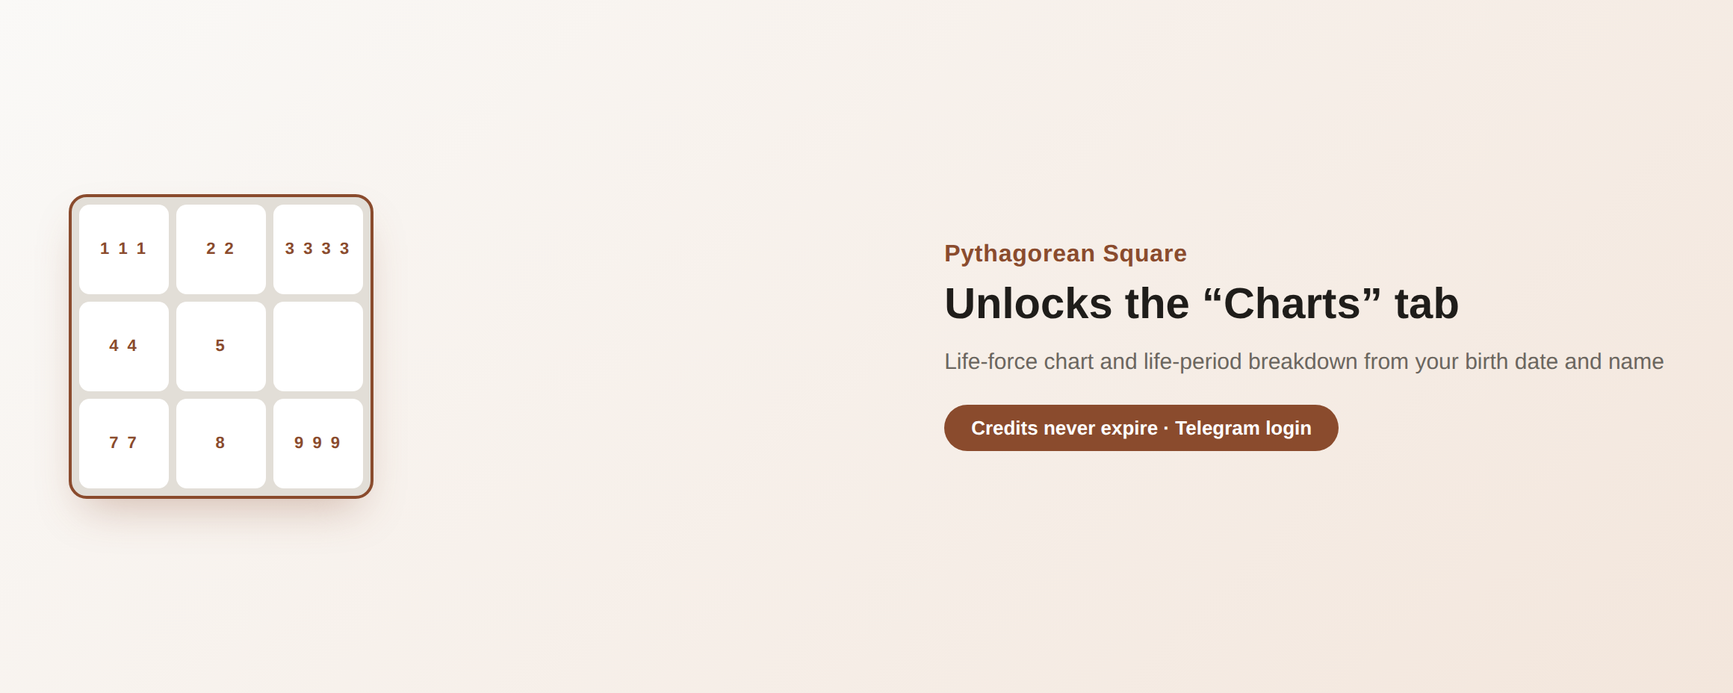
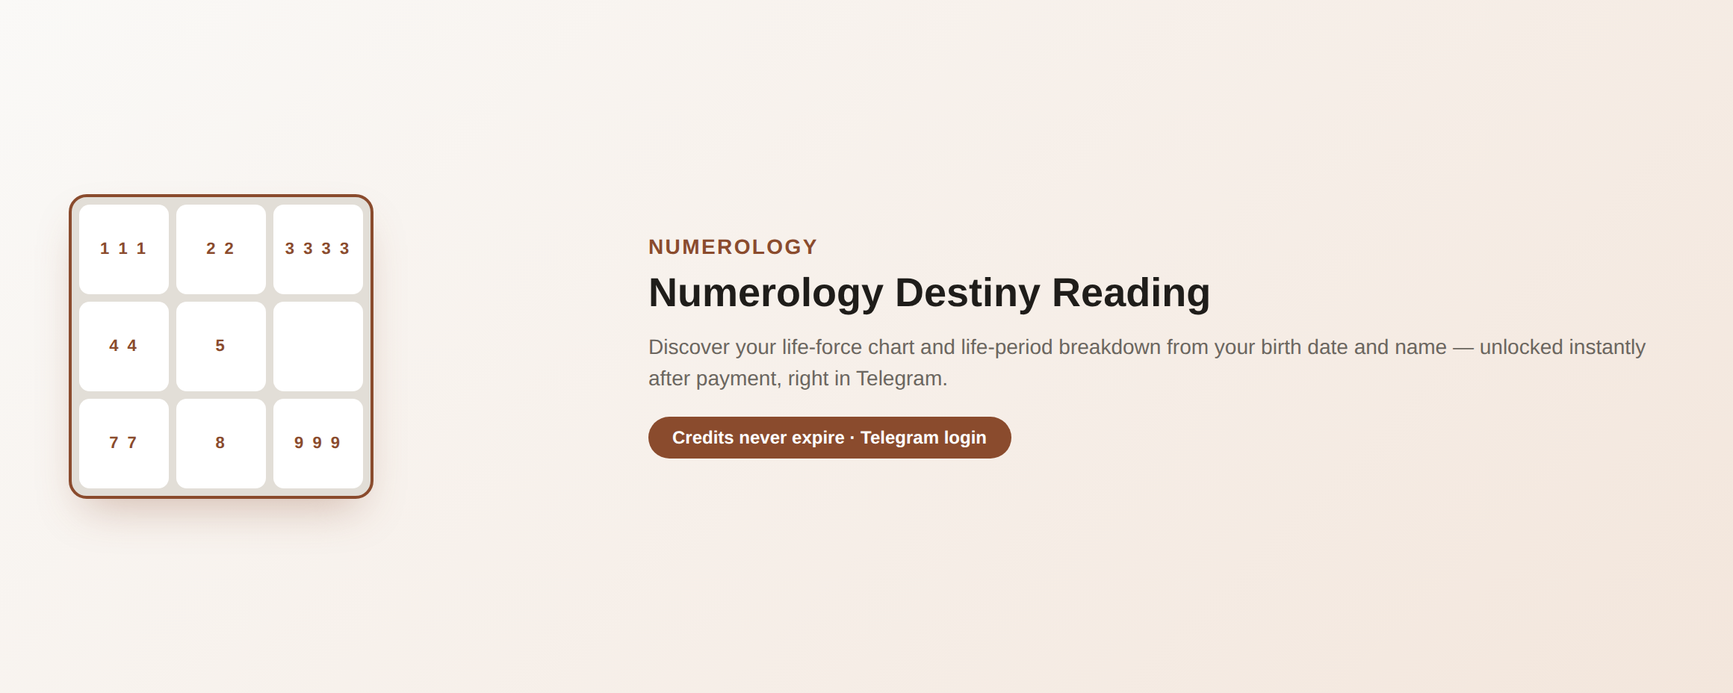
Change Lava.top tariffs to 3/10 readings at 999/2499 RUB
Drop the 15-reading pack per decision: only two packs now (999 RUB /
2499 RUB for RU, $14.99 / $34.99 for EN), re-buyable any time readings
run out. Updates pricing UI, the offer text, backend PACKS/LAVA_OFFERS,
tests, .env.example, and the Lava.top marketing content/README
(4 products instead of 6). Also shortens the buyer email text and
tightens a stale comment about pricing display logic.

Changed region(s): [[0.3724, 0.3438, 0.9621, 0.5625], [0.3724, 0.5625, 0.7759, 0.6875], [0.3724, 0.3438, 0.4655, 0.375]]

diff --git a/index.html b/index.html
@@ -414,14 +414,12 @@ const API_BASE = "/api"; // бэкенд должен быть на том же 
 const TG_BOT_USERNAME = "AstroNumeros_bot"; // username бота из @BotFather, без @
 const PACKS_INFO = {
   ru:[
-    {key:"pack3", credits:3, price:"399 ₽"},
-    {key:"pack10", credits:10, price:"999 ₽", best:true},
-    {key:"pack15", credits:15, price:"1399 ₽"},
+    {key:"pack3", credits:3, price:"999 ₽"},
+    {key:"pack10", credits:10, price:"2499 ₽", best:true},
   ],
   en:[
-    {key:"pack3", credits:3, price:"$5.99"},
-    {key:"pack10", credits:10, price:"$11.99", best:true},
-    {key:"pack15", credits:15, price:"$15.99"},
+    {key:"pack3", credits:3, price:"$14.99"},
+    {key:"pack10", credits:10, price:"$34.99", best:true},
   ],
 };
 
@@ -466,7 +464,7 @@ const STR = {
   planFreeName:"Free", planFreePrice:"0 ₽", planFreePeriod:"навсегда",
   planFreeDesc:"Вкладки «Числа» и «Трактовка» — без ограничений. Плюс один бесплатный разбор с открытием вкладки «Графики».",
   packPeriod:"разово, без срока действия",
-  packDesc:n=>"Открывает вкладку «Графики» для "+n+" расчётов.", // после «для» число всегда в род. падеже мн. числа — пакеты 3/10/15, «1» здесь не бывает
+  packDesc:n=>"Открывает вкладку «Графики» для "+n+" расчётов.", // после «для» число всегда в род. падеже мн. числа — пакеты 3/10, «1» здесь не бывает
   planFeaturesLabel:"Доступные вкладки:",
   planBadge:"выгоднее",
   infoTermsShort:"Полный текст условий оказания услуг и оплаты — в отдельном документе.",
@@ -680,7 +678,7 @@ const OFERTA_PARAS = {
   "Настоящий документ является публичной офертой Марины Бобренко, самозанятой (плательщик налога на профессиональный доход) (далее — «Исполнитель») на оказание информационных услуг с использованием сервиса «Квадрат Пифагора» (далее — «Сервис»).",
   "1. Предмет. Исполнитель предоставляет Пользователю доступ к автоматическому расчёту нумерологической матрицы (квадрата Пифагора) по дате рождения и ФИО, а также текстовую трактовку полученных чисел.",
   "2. Характер услуг. Результаты расчёта носят информационно-развлекательный характер, не являются медицинской, психологической, юридической или финансовой консультацией и не заменяют профессиональную помощь.",
-  "3. Тарифы и оплата. Вкладки «Числа» и «Трактовка» доступны бесплатно и без ограничения по времени. Вкладка «Графики» открывается за 1 «разбор»: первый разбор для каждого пользователя — бесплатно, далее разборы приобретаются пакетами: 399 ₽ — 3 разбора, 999 ₽ — 10 разборов, 1399 ₽ — 15 разборов. Разборы не имеют срока действия и списываются по одному за каждый новый расчёт, для которого открывается вкладка «Графики». Для получения бесплатного разбора и учёта баланса используется вход через Telegram. Оплата производится через платёжный сервис Lava.top; автоматическое продление и повторное списание средств не предусмотрены.",
+  "3. Тарифы и оплата. Вкладки «Числа» и «Трактовка» доступны бесплатно и без ограничения по времени. Вкладка «Графики» открывается за 1 «разбор»: первый разбор для каждого пользователя — бесплатно, далее разборы приобретаются пакетами: 999 ₽ — 3 разбора, 2499 ₽ — 10 разборов. Пакеты можно докупать повторно в любой момент, когда разборы заканчиваются. Разборы не имеют срока действия и списываются по одному за каждый новый расчёт, для которого открывается вкладка «Графики». Для получения бесплатного разбора и учёта баланса используется вход через Telegram. Оплата производится через платёжный сервис Lava.top; автоматическое продление и повторное списание средств не предусмотрены.",
   "4. Возврат. Доступ к оплаченному тарифу предоставляется мгновенно после оплаты. Возврат средств возможен в случае технической ошибки, из-за которой доступ не был предоставлен, — по обращению в поддержку (см. «Контакты»).",
   "5. Персональные данные. Дата рождения и ФИО, введённые в форму, используются только для расчёта и не передаются третьим лицам, за исключением данных, необходимых платёжному сервису для обработки платежа.",
   "6. Согласие. Начиная использовать Сервис и/или производя оплату, Пользователь подтверждает согласие с условиями настоящей оферты. Действующая редакция всегда доступна на этой странице.",
@@ -690,7 +688,7 @@ const OFERTA_PARAS = {
   "This document is a public offer by Marina Bobrenko, a self-employed individual (professional-income taxpayer, Russia) (the “Provider”) to render information services using the “Pythagorean Square” service (the “Service”).",
   "1. Subject. The Provider gives the User access to an automated calculation of the numerology matrix (Pythagorean square) from a birth date and full name, together with a text interpretation of the resulting numbers.",
   "2. Nature of the service. The results are for informational and entertainment purposes only; they are not medical, psychological, legal or financial advice and do not replace professional help.",
-  "3. Plans and payment. The “Numbers” and “Interpretation” tabs are free and available without a time limit. The “Charts” tab is unlocked with 1 “reading”: each user's first reading is free; further readings are bought in packs: 399 ₽ (≈$5.99) for 3 readings, 999 ₽ (≈$11.99) for 10 readings, 1399 ₽ (≈$15.99) for 15 readings. Readings do not expire and are spent one at a time, each time the “Charts” tab is unlocked for a new calculation. Logging in with Telegram is used to grant the free reading and keep track of the balance. Payment is processed via the Lava.top payment service; there is no automatic renewal or recurring charge.",
+  "3. Plans and payment. The “Numbers” and “Interpretation” tabs are free and available without a time limit. The “Charts” tab is unlocked with 1 “reading”: each user's first reading is free; further readings are bought in packs: 999 ₽ (≈$14.99) for 3 readings, 2499 ₽ (≈$34.99) for 10 readings. Packs can be bought again at any time once your readings run out. Readings do not expire and are spent one at a time, each time the “Charts” tab is unlocked for a new calculation. Logging in with Telegram is used to grant the free reading and keep track of the balance. Payment is processed via the Lava.top payment service; there is no automatic renewal or recurring charge.",
   "4. Refunds. Access to a paid plan is granted instantly after payment. A refund is possible if a technical error prevented access from being granted — by contacting support (see “Contacts”).",
   "5. Personal data. The birth date and name entered in the form are used only to perform the calculation and are not shared with third parties, except data required by the payment service to process the payment.",
   "6. Consent. By using the Service and/or making a payment, the User confirms agreement with the terms of this offer. The current version is always available on this page.",

diff --git a/template.html b/template.html
@@ -109,14 +109,12 @@ const API_BASE = "/api"; // бэкенд должен быть на том же 
 const TG_BOT_USERNAME = "AstroNumeros_bot"; // username бота из @BotFather, без @
 const PACKS_INFO = {
   ru:[
-    {key:"pack3", credits:3, price:"399 ₽"},
-    {key:"pack10", credits:10, price:"999 ₽", best:true},
-    {key:"pack15", credits:15, price:"1399 ₽"},
+    {key:"pack3", credits:3, price:"999 ₽"},
+    {key:"pack10", credits:10, price:"2499 ₽", best:true},
   ],
   en:[
-    {key:"pack3", credits:3, price:"$5.99"},
-    {key:"pack10", credits:10, price:"$11.99", best:true},
-    {key:"pack15", credits:15, price:"$15.99"},
+    {key:"pack3", credits:3, price:"$14.99"},
+    {key:"pack10", credits:10, price:"$34.99", best:true},
   ],
 };
 
@@ -161,7 +159,7 @@ const STR = {
   planFreeName:"Free", planFreePrice:"0 ₽", planFreePeriod:"навсегда",
   planFreeDesc:"Вкладки «Числа» и «Трактовка» — без ограничений. Плюс один бесплатный разбор с открытием вкладки «Графики».",
   packPeriod:"разово, без срока действия",
-  packDesc:n=>"Открывает вкладку «Графики» для "+n+" расчётов.", // после «для» число всегда в род. падеже мн. числа — пакеты 3/10/15, «1» здесь не бывает
+  packDesc:n=>"Открывает вкладку «Графики» для "+n+" расчётов.", // после «для» число всегда в род. падеже мн. числа — пакеты 3/10, «1» здесь не бывает
   planFeaturesLabel:"Доступные вкладки:",
   planBadge:"выгоднее",
   infoTermsShort:"Полный текст условий оказания услуг и оплаты — в отдельном документе.",
@@ -375,7 +373,7 @@ const OFERTA_PARAS = {
   "Настоящий документ является публичной офертой Марины Бобренко, самозанятой (плательщик налога на профессиональный доход) (далее — «Исполнитель») на оказание информационных услуг с использованием сервиса «Квадрат Пифагора» (далее — «Сервис»).",
   "1. Предмет. Исполнитель предоставляет Пользователю доступ к автоматическому расчёту нумерологической матрицы (квадрата Пифагора) по дате рождения и ФИО, а также текстовую трактовку полученных чисел.",
   "2. Характер услуг. Результаты расчёта носят информационно-развлекательный характер, не являются медицинской, психологической, юридической или финансовой консультацией и не заменяют профессиональную помощь.",
-  "3. Тарифы и оплата. Вкладки «Числа» и «Трактовка» доступны бесплатно и без ограничения по времени. Вкладка «Графики» открывается за 1 «разбор»: первый разбор для каждого пользователя — бесплатно, далее разборы приобретаются пакетами: 399 ₽ — 3 разбора, 999 ₽ — 10 разборов, 1399 ₽ — 15 разборов. Разборы не имеют срока действия и списываются по одному за каждый новый расчёт, для которого открывается вкладка «Графики». Для получения бесплатного разбора и учёта баланса используется вход через Telegram. Оплата производится через платёжный сервис Lava.top; автоматическое продление и повторное списание средств не предусмотрены.",
+  "3. Тарифы и оплата. Вкладки «Числа» и «Трактовка» доступны бесплатно и без ограничения по времени. Вкладка «Графики» открывается за 1 «разбор»: первый разбор для каждого пользователя — бесплатно, далее разборы приобретаются пакетами: 999 ₽ — 3 разбора, 2499 ₽ — 10 разборов. Пакеты можно докупать повторно в любой момент, когда разборы заканчиваются. Разборы не имеют срока действия и списываются по одному за каждый новый расчёт, для которого открывается вкладка «Графики». Для получения бесплатного разбора и учёта баланса используется вход через Telegram. Оплата производится через платёжный сервис Lava.top; автоматическое продление и повторное списание средств не предусмотрены.",
   "4. Возврат. Доступ к оплаченному тарифу предоставляется мгновенно после оплаты. Возврат средств возможен в случае технической ошибки, из-за которой доступ не был предоставлен, — по обращению в поддержку (см. «Контакты»).",
   "5. Персональные данные. Дата рождения и ФИО, введённые в форму, используются только для расчёта и не передаются третьим лицам, за исключением данных, необходимых платёжному сервису для обработки платежа.",
   "6. Согласие. Начиная использовать Сервис и/или производя оплату, Пользователь подтверждает согласие с условиями настоящей оферты. Действующая редакция всегда доступна на этой странице.",
@@ -385,7 +383,7 @@ const OFERTA_PARAS = {
   "This document is a public offer by Marina Bobrenko, a self-employed individual (professional-income taxpayer, Russia) (the “Provider”) to render information services using the “Pythagorean Square” service (the “Service”).",
   "1. Subject. The Provider gives the User access to an automated calculation of the numerology matrix (Pythagorean square) from a birth date and full name, together with a text interpretation of the resulting numbers.",
   "2. Nature of the service. The results are for informational and entertainment purposes only; they are not medical, psychological, legal or financial advice and do not replace professional help.",
-  "3. Plans and payment. The “Numbers” and “Interpretation” tabs are free and available without a time limit. The “Charts” tab is unlocked with 1 “reading”: each user's first reading is free; further readings are bought in packs: 399 ₽ (≈$5.99) for 3 readings, 999 ₽ (≈$11.99) for 10 readings, 1399 ₽ (≈$15.99) for 15 readings. Readings do not expire and are spent one at a time, each time the “Charts” tab is unlocked for a new calculation. Logging in with Telegram is used to grant the free reading and keep track of the balance. Payment is processed via the Lava.top payment service; there is no automatic renewal or recurring charge.",
+  "3. Plans and payment. The “Numbers” and “Interpretation” tabs are free and available without a time limit. The “Charts” tab is unlocked with 1 “reading”: each user's first reading is free; further readings are bought in packs: 999 ₽ (≈$14.99) for 3 readings, 2499 ₽ (≈$34.99) for 10 readings. Packs can be bought again at any time once your readings run out. Readings do not expire and are spent one at a time, each time the “Charts” tab is unlocked for a new calculation. Logging in with Telegram is used to grant the free reading and keep track of the balance. Payment is processed via the Lava.top payment service; there is no automatic renewal or recurring charge.",
   "4. Refunds. Access to a paid plan is granted instantly after payment. A refund is possible if a technical error prevented access from being granted — by contacting support (see “Contacts”).",
   "5. Personal data. The birth date and name entered in the form are used only to perform the calculation and are not shared with third parties, except data required by the payment service to process the payment.",
   "6. Consent. By using the Service and/or making a payment, the User confirms agreement with the terms of this offer. The current version is always available on this page.",

diff --git a/oferta.html b/oferta.html
@@ -47,7 +47,7 @@ const STR = {
    "Настоящий документ является публичной офертой Марины Бобренко, самозанятой (плательщик налога на профессиональный доход) (далее — «Исполнитель») на оказание информационных услуг с использованием сервиса «Квадрат Пифагора» (далее — «Сервис»).",
    "1. Предмет. Исполнитель предоставляет Пользователю доступ к автоматическому расчёту нумерологической матрицы (квадрата Пифагора) по дате рождения и ФИО, а также текстовую трактовку полученных чисел.",
    "2. Характер услуг. Результаты расчёта носят информационно-развлекательный характер, не являются медицинской, психологической, юридической или финансовой консультацией и не заменяют профессиональную помощь.",
-   "3. Тарифы и оплата. Вкладки «Числа» и «Трактовка» доступны бесплатно и без ограничения по времени. Вкладка «Графики» открывается за 1 «разбор»: первый разбор для каждого пользователя — бесплатно, далее разборы приобретаются пакетами: 399 ₽ — 3 разбора, 999 ₽ — 10 разборов, 1399 ₽ — 15 разборов. Разборы не имеют срока действия и списываются по одному за каждый новый расчёт, для которого открывается вкладка «Графики». Для получения бесплатного разбора и учёта баланса используется вход через Telegram. Оплата производится через платёжный сервис Lava.top; автоматическое продление и повторное списание средств не предусмотрены.",
+   "3. Тарифы и оплата. Вкладки «Числа» и «Трактовка» доступны бесплатно и без ограничения по времени. Вкладка «Графики» открывается за 1 «разбор»: первый разбор для каждого пользователя — бесплатно, далее разборы приобретаются пакетами: 999 ₽ — 3 разбора, 2499 ₽ — 10 разборов. Пакеты можно докупать повторно в любой момент, когда разборы заканчиваются. Разборы не имеют срока действия и списываются по одному за каждый новый расчёт, для которого открывается вкладка «Графики». Для получения бесплатного разбора и учёта баланса используется вход через Telegram. Оплата производится через платёжный сервис Lava.top; автоматическое продление и повторное списание средств не предусмотрены.",
    "4. Возврат. Доступ к оплаченному тарифу предоставляется мгновенно после оплаты. Возврат средств возможен в случае технической ошибки, из-за которой доступ не был предоставлен, — по обращению в поддержку (см. «Контакты»).",
    "5. Персональные данные. Дата рождения и ФИО, введённые в форму, используются только для расчёта и не передаются третьим лицам, за исключением данных, необходимых платёжному сервису для обработки платежа.",
    "6. Согласие. Начиная использовать Сервис и/или производя оплату, Пользователь подтверждает согласие с условиями настоящей оферты. Действующая редакция всегда доступна на этой странице.",
@@ -63,7 +63,7 @@ const STR = {
    "This document is a public offer by Marina Bobrenko, a self-employed individual (professional-income taxpayer, Russia) (the “Provider”) to render information services using the “Pythagorean Square” service (the “Service”).",
    "1. Subject. The Provider gives the User access to an automated calculation of the numerology matrix (Pythagorean square) from a birth date and full name, together with a text interpretation of the resulting numbers.",
    "2. Nature of the service. The results are for informational and entertainment purposes only; they are not medical, psychological, legal or financial advice and do not replace professional help.",
-   "3. Plans and payment. The “Numbers” and “Interpretation” tabs are free and available without a time limit. The “Charts” tab is unlocked with 1 “reading”: each user's first reading is free; further readings are bought in packs: 399 ₽ (≈$5.99) for 3 readings, 999 ₽ (≈$11.99) for 10 readings, 1399 ₽ (≈$15.99) for 15 readings. Readings do not expire and are spent one at a time, each time the “Charts” tab is unlocked for a new calculation. Logging in with Telegram is used to grant the free reading and keep track of the balance. Payment is processed via the Lava.top payment service; there is no automatic renewal or recurring charge.",
+   "3. Plans and payment. The “Numbers” and “Interpretation” tabs are free and available without a time limit. The “Charts” tab is unlocked with 1 “reading”: each user's first reading is free; further readings are bought in packs: 999 ₽ (≈$14.99) for 3 readings, 2499 ₽ (≈$34.99) for 10 readings. Packs can be bought again at any time once your readings run out. Readings do not expire and are spent one at a time, each time the “Charts” tab is unlocked for a new calculation. Logging in with Telegram is used to grant the free reading and keep track of the balance. Payment is processed via the Lava.top payment service; there is no automatic renewal or recurring charge.",
    "4. Refunds. Access to a paid plan is granted instantly after payment. A refund is possible if a technical error prevented access from being granted — by contacting support (see “Contacts”).",
    "5. Personal data. The birth date and name entered in the form are used only to perform the calculation and are not shared with third parties, except data required by the payment service to process the payment.",
    "6. Consent. By using the Service and/or making a payment, the User confirms agreement with the terms of this offer. The current version is always available on this page.",

diff --git a/backend/main.py b/backend/main.py
@@ -27,8 +27,6 @@ Run locally for testing:
     export LAVA_OFFER_PACK3_EN=...      # offerId (UUID) of the EN "3 readings" product in Lava.top
     export LAVA_OFFER_PACK10_RU=...
     export LAVA_OFFER_PACK10_EN=...
-    export LAVA_OFFER_PACK15_RU=...
-    export LAVA_OFFER_PACK15_EN=...
     export FRONTEND_URL=https://your-domain.example
     uvicorn main:app --host 0.0.0.0 --port 8000
 
@@ -71,7 +69,6 @@ LAVA_WEBHOOK_SECRET = os.environ.get("LAVA_WEBHOOK_SECRET", "")
 LAVA_OFFERS = {
     "pack3":  {"ru": os.environ.get("LAVA_OFFER_PACK3_RU", ""),  "en": os.environ.get("LAVA_OFFER_PACK3_EN", "")},
     "pack10": {"ru": os.environ.get("LAVA_OFFER_PACK10_RU", ""), "en": os.environ.get("LAVA_OFFER_PACK10_EN", "")},
-    "pack15": {"ru": os.environ.get("LAVA_OFFER_PACK15_RU", ""), "en": os.environ.get("LAVA_OFFER_PACK15_EN", "")},
 }
 
 FRONTEND_URL = os.environ.get("FRONTEND_URL", "http://localhost:8080")
@@ -79,13 +76,14 @@ DB_PATH = os.environ.get("DB_PATH", os.path.join(os.path.dirname(__file__), "app
 EMAIL_RE = re.compile(r"^[^@\s]+@[^@\s]+\.[^@\s]+$")
 
 # Packs are the source of truth for price/credits — never trust amounts from the client.
-# RUB prices as agreed; USD prices are a display default for the EN UI until a real
-# foreign-currency payment channel exists (see conversation notes) — YooKassa will
-# still charge the RUB amount even when the UI shows the EN/$ price.
+# These amount_rub/amount_usd figures are display-only (the /api/packs response,
+# and what the pricing tab on the site shows) — the actual charge amount comes
+# from the price configured on the matching Lava.top product/tariff itself
+# (LAVA_OFFERS), since create_lava_invoice() doesn't send an amount. Keep these
+# in sync by hand whenever the price is changed in the Lava.top dashboard.
 PACKS = {
-    "pack3":  {"credits": 3,  "amount_rub": 399,  "amount_usd": 5.99,  "label_ru": "3 разбора",  "label_en": "3 readings"},
-    "pack10": {"credits": 10, "amount_rub": 999,  "amount_usd": 11.99, "label_ru": "10 разборов", "label_en": "10 readings"},
-    "pack15": {"credits": 15, "amount_rub": 1399, "amount_usd": 15.99, "label_ru": "15 разборов", "label_en": "15 readings"},
+    "pack3":  {"credits": 3,  "amount_rub": 999,  "amount_usd": 14.99, "label_ru": "3 разбора",  "label_en": "3 readings"},
+    "pack10": {"credits": 10, "amount_rub": 2499, "amount_usd": 34.99, "label_ru": "10 разборов", "label_en": "10 readings"},
 }
 
 SESSION_COOKIE = "pf_session"
@@ -164,7 +162,7 @@ def on_startup():
     if not LAVA_API_KEY:
         print("WARNING: LAVA_API_KEY not set — payments (active provider) will fail.")
     if not all(LAVA_OFFERS[pack][lang] for pack in LAVA_OFFERS for lang in ("ru", "en")):
-        print("WARNING: one or more LAVA_OFFER_pack* ids are not set — create the 3 products in "
+        print("WARNING: one or more LAVA_OFFER_pack* ids are not set — create the 2 products in "
               "the Lava.top dashboard first and put their offerId here.")
     if not LAVA_WEBHOOK_SECRET:
         print("WARNING: LAVA_WEBHOOK_SECRET not set — the webhook endpoint will accept unauthenticated calls.")

diff --git a/verify9.py b/verify9.py
@@ -33,9 +33,9 @@ async def main():
         info_text = await page.locator("#tab-info").inner_text()
         print("\n--- Тарифы tab snippet ---")
         print(info_text[:600])
-        for expect in ["399", "999", "1399", "Free"]:
+        for expect in ["999", "2499", "Free"]:
             assert expect in info_text, f"missing {expect} in pricing tab"
-        print("OK: pricing tab shows Free + 3 packs with correct prices")
+        print("OK: pricing tab shows Free + 2 packs with correct prices")
 
         # switch to EN, re-check graphs paywall + pricing in USD
         await page.get_by_role("button", name="EN", exact=True).click()
@@ -53,7 +53,7 @@ async def main():
         info_text_en = await page.locator("#tab-info").inner_text()
         print("\n--- Pricing tab (EN) snippet ---")
         print(info_text_en[:600])
-        for expect in ["5.99", "11.99", "15.99"]:
+        for expect in ["14.99", "34.99"]:
             assert expect in info_text_en, f"missing {expect} in EN pricing tab"
         print("OK: EN pricing tab shows USD prices")
 

diff --git a/backend/test_smoke.py b/backend/test_smoke.py
@@ -95,12 +95,16 @@ with TestClient(main.app, base_url="https://testserver") as c:
 r = client.get("/api/packs?lang=ru")
 assert r.status_code == 200
 packs_ru = r.json()
-assert packs_ru["pack3"]["amount"] == 399 and packs_ru["pack3"]["currency"] == "RUB"
+assert packs_ru["pack3"]["amount"] == 999 and packs_ru["pack3"]["currency"] == "RUB"
+assert packs_ru["pack10"]["amount"] == 2499 and packs_ru["pack10"]["currency"] == "RUB"
+assert "pack15" not in packs_ru
 print("OK: RU packs ->", packs_ru)
 
 r = client.get("/api/packs?lang=en")
 packs_en = r.json()
-assert packs_en["pack3"]["amount"] == 5.99 and packs_en["pack3"]["currency"] == "USD"
+assert packs_en["pack3"]["amount"] == 14.99 and packs_en["pack3"]["currency"] == "USD"
+assert packs_en["pack10"]["amount"] == 34.99 and packs_en["pack10"]["currency"] == "USD"
+assert "pack15" not in packs_en
 print("OK: EN packs ->", packs_en)
 
 print("\nALL SMOKE TESTS PASSED")

diff --git a/backend/test_lava.py b/backend/test_lava.py
@@ -19,8 +19,6 @@ os.environ["LAVA_OFFER_PACK3_RU"] = "offer-pack3-ru-uuid"
 os.environ["LAVA_OFFER_PACK3_EN"] = "offer-pack3-en-uuid"
 os.environ["LAVA_OFFER_PACK10_RU"] = "offer-pack10-ru-uuid"
 os.environ["LAVA_OFFER_PACK10_EN"] = "offer-pack10-en-uuid"
-os.environ["LAVA_OFFER_PACK15_RU"] = "offer-pack15-ru-uuid"
-os.environ["LAVA_OFFER_PACK15_EN"] = "offer-pack15-en-uuid"
 os.environ["DB_PATH"] = "/tmp/test_pifagor_lava.db"
 
 if os.path.exists("/tmp/test_pifagor_lava.db"):

diff --git a/lava_assets/content.md b/lava_assets/content.md
@@ -1,6 +1,11 @@
-# Тексты для карточек Lava.top (Квадрат Пифагора)
+# Тексты для карточек Lava.top (Нумерологический разбор судьбы)
 
-Универсальный вариант: один текст на все 3 пакета в каждом языке (RU/EN) —
+Маркетплейс-название специально без термина «Квадрат Пифагора» — на
+Lava.top товар называется и описывается как «Нумерологический разбор
+судьбы» (EN: «Numerology Destiny Reading»); на самом сайте/в боте
+название сервиса не меняется, это только витрина на Lava.top.
+
+Универсальный вариант: один текст на оба пакета в каждом языке (RU/EN) —
 конкретное число разборов и цену покупатель и так видит в названии товара
 и в цене карточки, а сколько кредитов начислить бэкенд определяет сам по
 `offerId` (см. `LAVA_OFFERS`/`PACKS` в `backend/main.py`) — в самих текстах
@@ -10,13 +15,16 @@
 продукта → Описание продукта → После оплаты → Письмо покупателю**.
 
 **Картинки** — в `covers/`:
-- `cover_ru.png` / `cover_en.png` — обложка (1160×464), одна на все 3 RU-пакета и одна на все 3 EN-пакета.
-- `icon.png` — квадратная иконка (512×512, универсальная для RU и EN), на случай если где-то в интерфейсе Lava.top потребуется отдельно от обложки (в их документации по цифровым продуктам такого поля не нашлось, но раз просили — сделал про запас).
+- `cover_ru.png` / `cover_en.png` — обложка (1160×464), одна на оба RU-пакета и одна на оба EN-пакета. Короткое описание проекта уже встроено в саму картинку текстом (заголовок + два предложения), как и просили.
+- `icon.png` — квадратная иконка (512×512, универсальная для RU и EN), на случай если где-то в интерфейсе Lava.top потребуется отдельно от обложки.
 
 **Цена** вводится вручную в поле цены на Lava.top:
-- RU: 399 ₽ / 999 ₽ / 1399 ₽ (pack3 / pack10 / pack15)
-- EN: $5.99 / $11.99 / $15.99 (pack3 / pack10 / pack15— цену pack3
-  подняли с $4.99 до $5.99, у Lava.top минимум $5 за товар)
+- RU: 999 ₽ / 2499 ₽ (pack3 / pack10)
+- EN: $14.99 / $34.99 (pack3 / pack10 — в том же соотношении к рублю, что
+  вы задали; это моё предложение по курсу, проверьте и поправьте если нужно)
+
+Пакетов теперь два (было три) — тариф на 15 разборов убрали по вашему решению,
+после окончания любого пакета можно докупить ещё.
 
 Переключатель **«Цена по запросу через API»** — выключить: наш бэкенд
 передаёт при создании счёта только `offerId`, `currency` и email, без
@@ -24,74 +32,66 @@
 
 ---
 
-## RU — названия трёх товаров (различаются только этим полем)
+## RU — названия двух товаров (различаются только этим полем)
 
-> Квадрат Пифагора — 3 разбора (399 ₽)
-> Квадрат Пифагора — 10 разборов (999 ₽)
-> Квадрат Пифагора — 15 разборов (1399 ₽)
+> Нумерологический разбор судьбы — 3 разбора (999 ₽)
+> Нумерологический разбор судьбы — 10 разборов (2499 ₽)
 
-## RU — Описание продукта (одинаковое для всех трёх)
+## RU — Описание продукта (одинаковое для обоих)
 
-> Доступ к вкладке «Графики» калькулятора «Квадрат Пифагора»: график жизненных сил и периоды жизни по дате рождения и ФИО. Разборы не сгорают и остаются на балансе до использования — доступ через вход по Telegram.
+> Персональный нумерологический разбор судьбы: график жизненных сил и периоды жизни по дате рождения и ФИО. Доступ открывается сразу после оплаты, разборы не сгорают и остаются на балансе до использования — вход через Telegram.
 
-## RU — После оплаты (одинаковое для всех трёх)
+## RU — После оплаты (одинаковое для обоих)
 
 > Оплата прошла успешно! Оплаченные разборы уже зачисляются на ваш баланс — обычно это занимает несколько минут. Откройте бот @AstroNumeros_bot, войдите через кнопку «Войти через Telegram» (тем же аккаунтом, что указывали при оплате) и откройте вкладку «Графики». Чек за покупку придёт отдельным письмом на указанный email.
 
-## RU — Письмо покупателю — тема (одинаковое для всех трёх)
+## RU — Письмо покупателю — тема (одинаковое для обоих)
 
-> Ваша покупка — Квадрат Пифагора
+> Ваша покупка — нумерологический разбор судьбы
 
-## RU — Письмо покупателю — текст (одинаковое для всех трёх)
+## RU — Письмо покупателю — текст (одинаковое для обоих, сокращено)
 
 > Здравствуйте!
 >
-> Спасибо за покупку — оплаченные разборы для калькулятора «Квадрат Пифагора» уже добавляются на ваш баланс (обычно автоматически, в течение нескольких минут после оплаты).
+> Спасибо за покупку — разборы уже добавляются на баланс автоматически, обычно в течение нескольких минут.
 >
 > Как получить доступ:
-> 1. Откройте бот @AstroNumeros_bot в Telegram (или сайт, когда он заработает по постоянному адресу).
-> 2. Войдите через кнопку «Войти через Telegram» — важно использовать тот же аккаунт, что и при оплате.
-> 3. Введите дату рождения и ФИО, рассчитайте разбор и откройте вкладку «Графики» — теперь она доступна.
+> 1. Откройте бот @AstroNumeros_bot в Telegram (или сайт, когда заработает постоянный адрес) и войдите тем же аккаунтом Telegram, что и при оплате.
+> 2. Введите дату рождения и ФИО и откройте вкладку «Графики» — теперь она доступна.
 >
-> Разборы не сгорают и остаются на балансе до использования.
+> Разборы не сгорают.
 >
-> Если баланс не обновился в течение 15–20 минут после оплаты, или возникли вопросы — просто ответьте на это письмо или напишите на mvbern8@gmail.com.
->
-> Спасибо, что выбрали «Квадрат Пифагора»!
+> Если баланс не обновился за 15–20 минут после оплаты, или есть вопросы — ответьте на это письмо или напишите на mvbern8@gmail.com.
 
 ---
 
-## EN — three product names (only field that differs)
+## EN — two product names (only field that differs)
 
-> Pythagorean Square — 3 readings ($5.99)
-> Pythagorean Square — 10 readings ($11.99)
-> Pythagorean Square — 15 readings ($15.99)
+> Numerology Destiny Reading — 3 readings ($14.99)
+> Numerology Destiny Reading — 10 readings ($34.99)
 
-## EN — Product description (same for all three)
+## EN — Product description (same for both)
 
-> Unlocks the "Charts" tab in the Pythagorean Square calculator: your life-force chart and life-period breakdown, based on your birth date and full name. Credits never expire — access via Telegram login.
+> A personal numerology destiny reading: your life-force chart and life-period breakdown, based on your birth date and full name. Unlocked instantly after payment, credits never expire — access via Telegram login.
 
-## EN — After payment (same for all three)
+## EN — After payment (same for both)
 
 > Payment successful! Your purchased readings are being added to your balance — this usually takes a few minutes. Open the @AstroNumeros_bot bot, sign in with "Log in with Telegram" (use the same account you paid with), and open the "Charts" tab. A receipt will be emailed to you separately.
 
-## EN — Buyer email — subject (same for all three)
+## EN — Buyer email — subject (same for both)
 
-> Your purchase — Pythagorean Square
+> Your purchase — numerology destiny reading
 
-## EN — Buyer email — body (same for all three)
+## EN — Buyer email — body (same for both, shortened)
 
 > Hello!
 >
-> Thank you for your purchase — your readings for the Pythagorean Square calculator are being added to your balance (usually automatically, within a few minutes of payment).
+> Thanks for your purchase — your readings are added to your balance automatically, usually within a few minutes.
 >
-> How to access them:
-> 1. Open the @AstroNumeros_bot bot in Telegram (or the website once it's live at a permanent address).
-> 2. Sign in with "Log in with Telegram" — make sure to use the same account you paid with.
-> 3. Enter a birth date and full name to run a reading, then open the "Charts" tab — it's now unlocked.
+> How to access:
+> 1. Open @AstroNumeros_bot in Telegram (or the website once it's live) and sign in with the same Telegram account you paid with.
+> 2. Enter your birth date and full name, then open the "Charts" tab — it's unlocked.
 >
-> Credits never expire and stay on your balance until used.
+> Credits never expire.
 >
-> If your balance hasn't updated within 15–20 minutes of payment, or you have any questions, just reply to this email or write to mvbern8@gmail.com.
->
-> Thank you for choosing Pythagorean Square!
+> Balance not updated within 15–20 minutes, or questions? Reply here or write to mvbern8@gmail.com.
